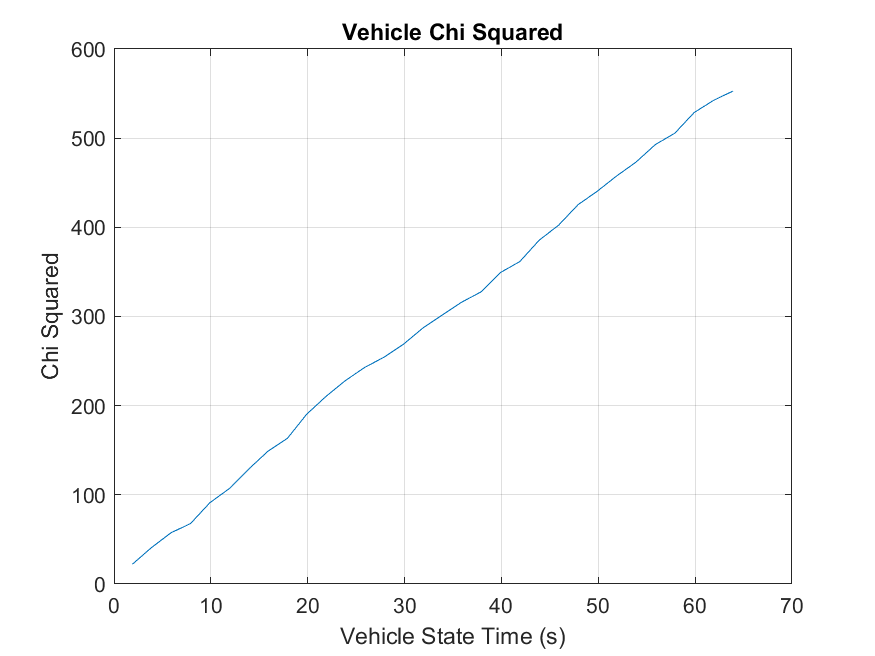
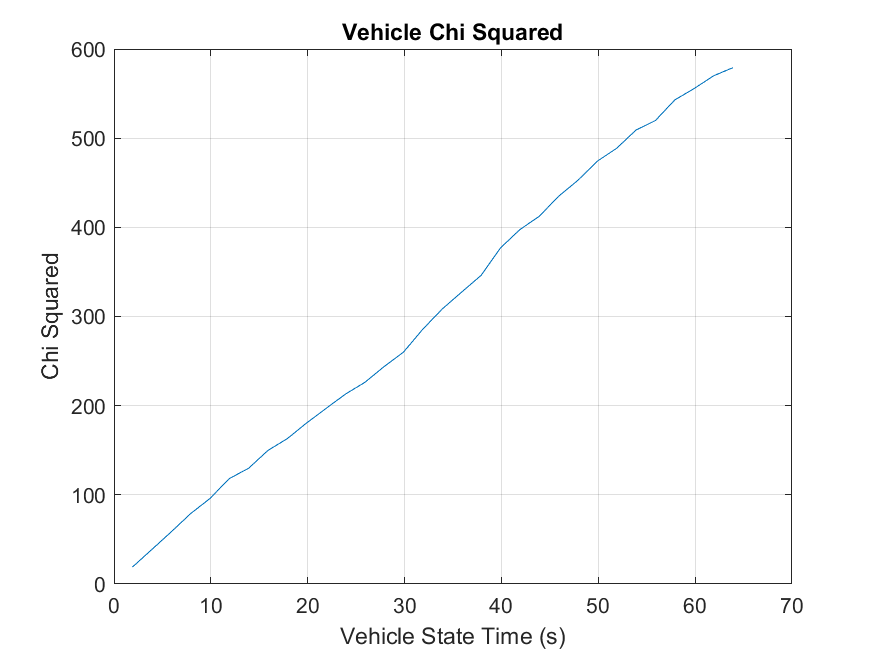
all figs

diff --git a/Code/q3_a.m b/Code/q3_a.m
@@ -30,13 +30,13 @@ drivebotSLAMSystem = drivebot.DriveBotSLAMSystem(configuration);
 drivebotSLAMSystem.setValidateGraph(false);
 
 % Optimize every 500 timesteps to get a picture of the situation as it evolves
-% drivebotSLAMSystem.setRecommendOptimizationPeriod(500);
-drivebotSLAMSystem.setRecommendOptimizationPeriod(1);
+drivebotSLAMSystem.setRecommendOptimizationPeriod(500);
+% drivebotSLAMSystem.setRecommendOptimizationPeriod(1);
 
 % Set whether the SLAM system should remove prediction edges. If the first
 % value is true, the SLAM system should remove the edges. If the second is
 % true, the first prediction edge will be retained.
-drivebotSLAMSystem.setRemovePredictionEdges(false, true);
+drivebotSLAMSystem.setRemovePredictionEdges(true, true);
 % drivebotSLAMSystem.setRemovePredictionEdges(true, false);
 
 % Run the main loop and correct results
@@ -46,4 +46,6 @@ results = minislam.mainLoop(simulator, drivebotSLAMSystem);
 % the axes.
 
 % plotter(["OptTime","Chi2","Covariance"],"Figures/q3a_no_opt",results)
+
+plotter(["OptTime","Chi2","Covariance"],"Figures/q3a_with_opt",results)
 

diff --git a/Code/+drivebot/DriveBotSLAMSystem.m b/Code/+drivebot/DriveBotSLAMSystem.m
@@ -366,7 +366,7 @@ classdef DriveBotSLAMSystem < minislam.slam.SLAMSystem
             % warning('drivebotslam:deletevehiclepredictionedges:unimplemented', ...
             %     'Implement the rest of this method for Q3a.');
 
-            if this.removePredictionEdgesFromGraph
+            if ~this.keepFirstPredictionEdge
                 % If removing all, then start at the beginning of the cells
                 start = 1;
             elseif this.keepFirstPredictionEdge
@@ -376,11 +376,15 @@ classdef DriveBotSLAMSystem < minislam.slam.SLAMSystem
 
             % Iterate through stored process model edges and remove the
             % edges
+
+            disp(["Before:",this.numProcessModelEdges])
             for v = start : this.numProcessModelEdges
                     this.graph.removeEdge(this.processModelEdges{v});
             end
 
             this.numProcessModelEdges = start - 1;
+
+            disp(["After:",this.numProcessModelEdges])
 
             % % Code Verification that the issue arises when the initial state
             % % vertex isn't connect to rest of the graph

diff --git a/Code/q1_b.m b/Code/q1_b.m
@@ -18,8 +18,6 @@ simulator = drivebot.DriveBotSimulator(configuration, 'q1_b');
 % Create the localization system
 drivebotSLAMSystem = drivebot.DriveBotSLAMSystem(configuration);
 
-drivebotSLAMSystem.setRecommendOptimizationPeriod(5);
-
 % This tells the SLAM system to do a very detailed check that the input
 % appears to be correct but can make the code run slowly. Once you are
 % confident your code is working safely, you can set this to false.

diff --git a/Code/q1_e.m b/Code/q1_e.m
@@ -7,7 +7,7 @@ configuration = drivebot.SimulatorConfiguration();
 configuration.enableGPS = true;
 
 % Set to true for part ii
-configuration.enableCompass = true;
+configuration.enableCompass = false;
 
 % Set up the simulator
 simulator = drivebot.DriveBotSimulator(configuration, 'q1_e');
